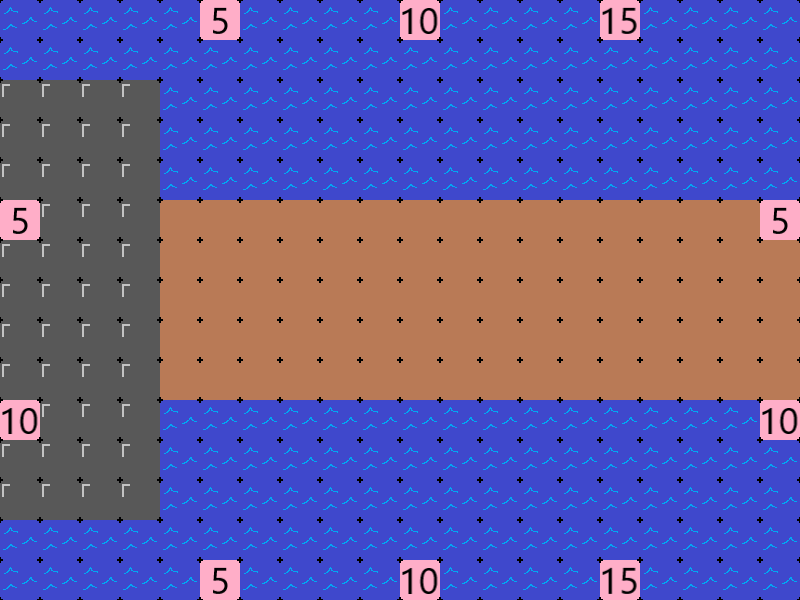
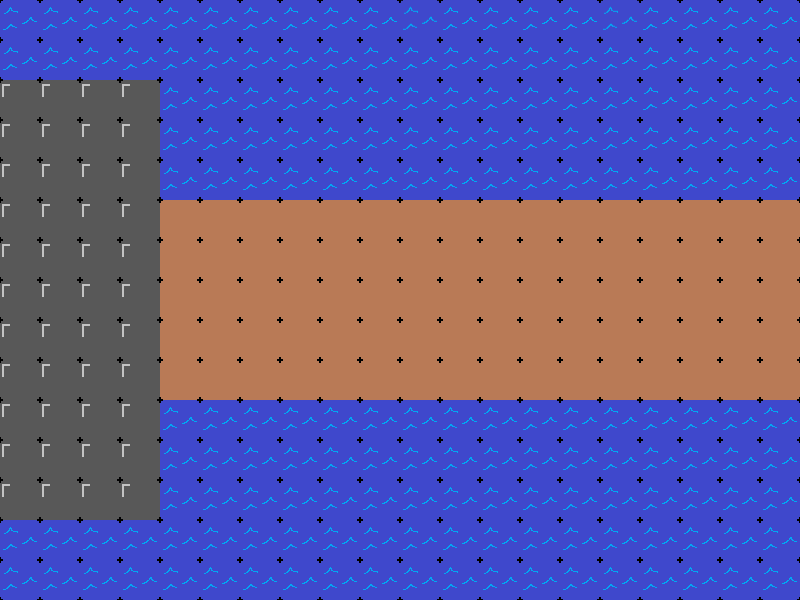
maps removed pink boxes

diff --git a/graphics/gfx_graphics.ts b/graphics/gfx_graphics.ts
@@ -409,7 +409,7 @@ module RaidNight.Graphics
             this.text_knightMana.setText(`${this.knight.character.mana.toFixed(0)} / ${this.knight.character.maxMana} MANA`);
             this.text_priestMana.setText(`${this.priest.character.mana.toFixed(0)} / ${this.priest.character.maxMana} MANA`);
 
-            this.text_TurnCount.setText(`${GLOBAL_GAME.arena.turn}`);
+            this.text_TurnCount.setText(`${GLOBAL_GAME.arena.turn >= 0 ? GLOBAL_GAME.arena.turn : ""}`);
 
             // do new stuff
             for (let i = 0; i < this.allSkillEffects.length; i++)
